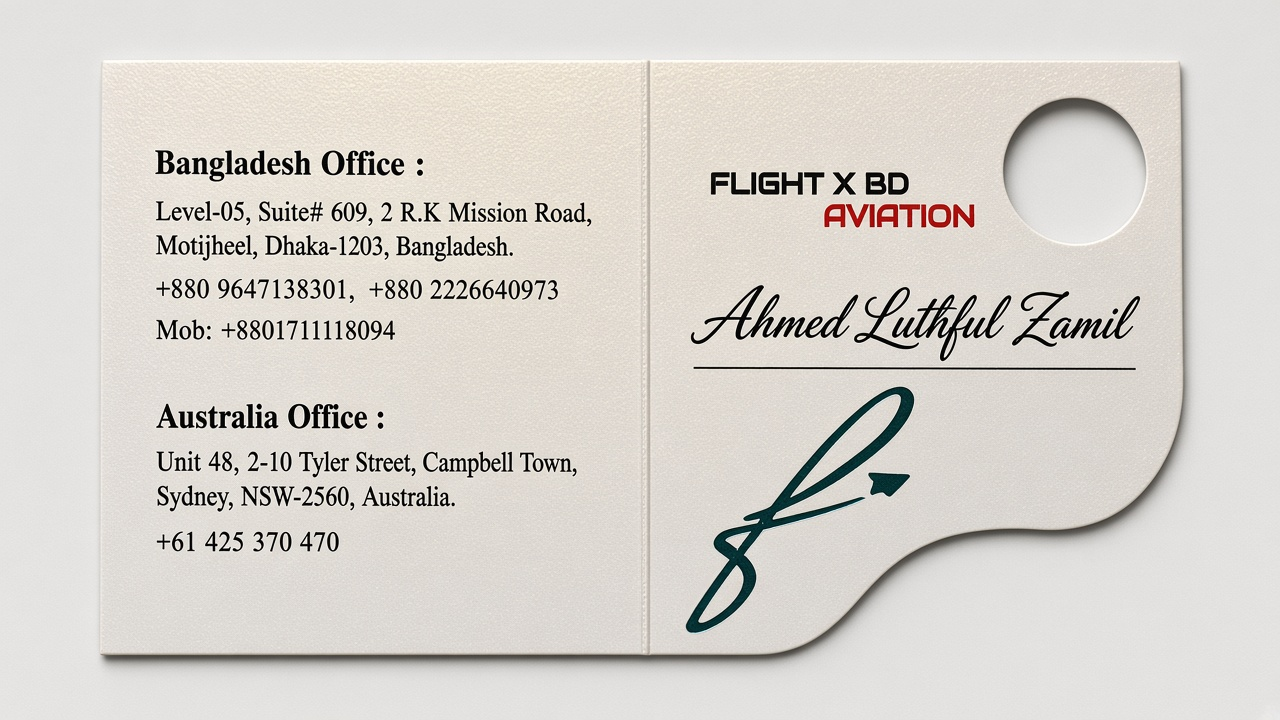
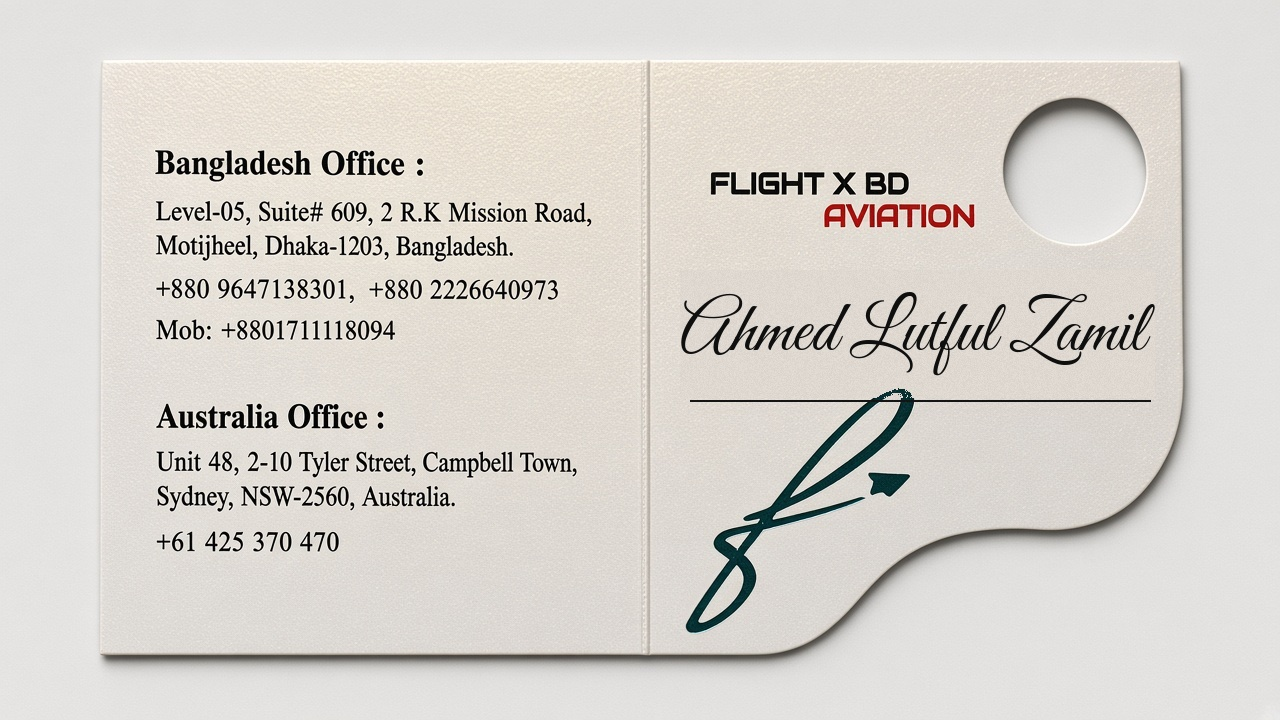
Correct name spelling to Ahmed Lutful Zamil
Remove the extra h from Luthful across the printable HTML,
README, and front mockup.

Changed region(s): [[0.5312, 0.3972, 0.9062, 0.5806]]

diff --git a/flightxbd-visiting-card/index.html b/flightxbd-visiting-card/index.html
@@ -3,7 +3,7 @@
 <head>
   <meta charset="UTF-8" />
   <meta name="viewport" content="width=device-width, initial-scale=1.0" />
-  <title>Flight X BD Aviation — Ahmed Luthful Zamil Visiting Card</title>
+  <title>Flight X BD Aviation — Ahmed Lutful Zamil Visiting Card</title>
   <link rel="preconnect" href="https://fonts.googleapis.com" />
   <link rel="preconnect" href="https://fonts.gstatic.com" crossorigin />
   <link href="https://fonts.googleapis.com/css2?family=Great+Vibes&family=Libre+Baskerville:wght@400;700&family=Montserrat:wght@500;600;700;800&display=swap" rel="stylesheet" />
@@ -494,7 +494,7 @@
 <body>
   <header class="page-header">
     <h1>Flight X BD Aviation — Visiting Card</h1>
-    <p>Ahmed Luthful Zamil · Print-ready layout + design mockups</p>
+    <p>Ahmed Lutful Zamil · Print-ready layout + design mockups</p>
   </header>
 
   <div class="cards">
@@ -523,7 +523,7 @@
               <span class="fx">FLIGHT X BD</span>
               <span class="av">AVIATION</span>
             </div>
-            <div class="person-name">Ahmed Luthful Zamil</div>
+            <div class="person-name">Ahmed Lutful Zamil</div>
             <div class="name-rule"></div>
             <div class="flight-mark" aria-hidden="true">
               <svg viewBox="0 0 100 100" xmlns="http://www.w3.org/2000/svg">
@@ -561,7 +561,7 @@
           <span class="fx">FLIGHT X BD</span><span class="av">AVIATION</span>
         </div>
         <div class="tagline">Plan Right Fly Bright</div>
-        <div class="person-chip">Ahmed Luthful Zamil</div>
+        <div class="person-chip">Ahmed Lutful Zamil</div>
 
         <div class="qr-row">
           <div class="qr-ring" title="Replace with live QR linking to www.flightxbd.com">
@@ -610,7 +610,7 @@
   </div>
 
   <p class="notes">
-    Name updated to <strong style="color:#e8eef5;font-weight:600">Ahmed Luthful Zamil</strong>.
+    Name updated to <strong style="color:#e8eef5;font-weight:600">Ahmed Lutful Zamil</strong>.
     Mobile <strong style="color:#e8eef5;font-weight:600">+8801711118094</strong> added.
     Office phones kept. All <em>ashfinahmed.com</em> links and emails removed.
     QR on the HTML back is a placeholder — swap in a live code for www.flightxbd.com before print.
@@ -618,7 +618,7 @@
 
   <section class="mockups" aria-label="Design mockups">
     <figure>
-      <img src="mockups/front.jpg" alt="Front mockup — Ahmed Luthful Zamil visiting card" />
+      <img src="mockups/front.jpg" alt="Front mockup — Ahmed Lutful Zamil visiting card" />
       <figcaption>Design mockup — Front</figcaption>
     </figure>
     <figure>

diff --git a/flightxbd-visiting-card/README.md b/flightxbd-visiting-card/README.md
@@ -1,12 +1,12 @@
-# Flight X BD Aviation — Visiting Card (Ahmed Luthful Zamil)
+# Flight X BD Aviation — Visiting Card (Ahmed Lutful Zamil)
 
-Printable visiting card recreation based on the Flight X BD Aviation die-cut design, updated for **Ahmed Luthful Zamil**.
+Printable visiting card recreation based on the Flight X BD Aviation die-cut design, updated for **Ahmed Lutful Zamil**.
 
 ## Changes from the original
 
 | Field | Value |
 | --- | --- |
-| Name | Ahmed Luthful Zamil |
+| Name | Ahmed Lutful Zamil |
 | Mobile | +8801711118094 |
 | Phone | +880 9647138301, +880 2226640973 |
 | Email | flightxbd@gmail.com only |
